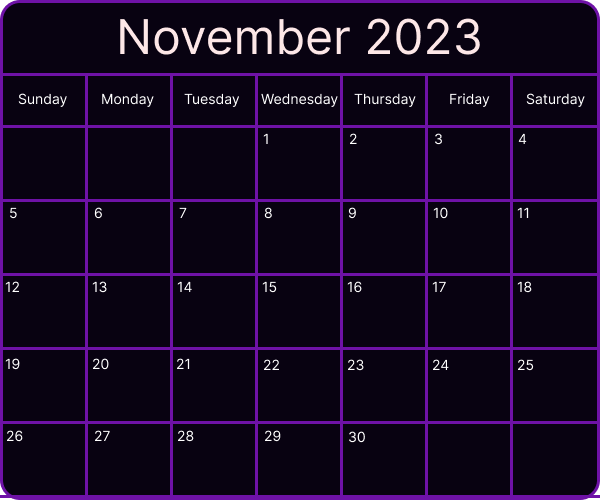
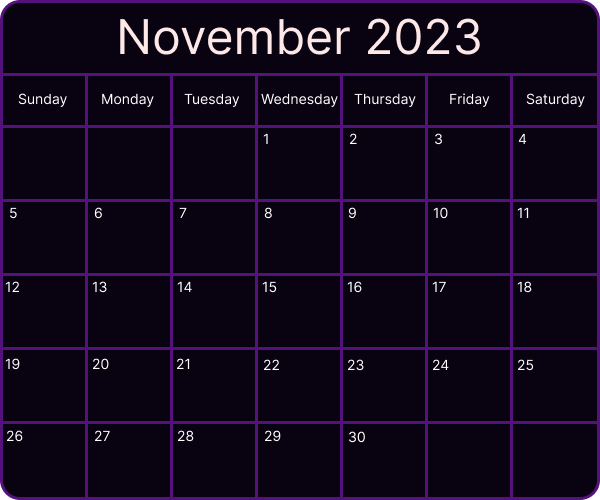
Finished polish
Added hover effects to the main page along with two more pictures. Fixed some spacing on other pages. Changed colour of calendar slightly. Ending it here so I don't get stuck polishing forever

Changed region(s): [[0.0, 0.0, 1.0, 1.0]]

diff --git a/homepage.css b/homepage.css
@@ -6,6 +6,7 @@
     --clr-background: #080211;
     --clr-secondary: #200D21;
     --clr-accent: #6E12A6;
+    --clr-accent2: #4b0c72;
 
     /* Sizes */
     --size-xxs: 0.5rem;
@@ -123,6 +124,18 @@ body {
     opacity: 0.5;
 }
 
+.lang__label {
+    margin-right: 0.5rem;
+}
+
+.lang__select {
+    background-color: var(--clr-background);
+    font-family: 'Kanit', sans-serif;
+    color: var(--clr-main-text);
+    border: none;
+    font-size: var(--size-base);
+}
+
 /* Main sections */
 
 .main {
@@ -136,12 +149,17 @@ body {
     width: 100%;
     font-size:0;
     line-height:0;
-    text-align: center;
+    display: flex;
+    justify-content: space-around;
 }
 
 .banner__img {
-    display: inline;
-    width: 800px;
+    /* width: 800px; */
+    height: 545px;
+}
+
+.img__op {
+    filter: brightness(50%);
 }
 
 .banner__hr {
@@ -178,11 +196,19 @@ body {
 
 .calendar {
     display: flex;
+    padding: 0.5rem;
+    margin-right: 2rem;
+    transition: background-color 0.3s;
+}
+
+.calendar:hover {
+    background-color: var(--clr-secondary);
+    border-radius: 10px;
 }
 
 .calendar__img {
-    width: 100px;
-    height: 100px;
+    width: 80px;
+    height: 80px;
     margin-right: 20px;
 }
 
@@ -229,7 +255,17 @@ body {
     display: flex;
     gap: 1rem;
     font-size: var(--size-lg);
-    background-color: var(--clr-secondary);
+    background-color: var(--clr-background);
+    padding: 0.5rem;
+    border-radius: 10px;
+    transition: background-color 0.3s;
+}
+
+.quickview__object:hover {
+    display: flex;
+    gap: 1rem;
+    font-size: var(--size-lg);
+    background-color: var(--clr-accent2);
     padding: 0.5rem;
     border-radius: 10px;
 }

diff --git a/index.html b/index.html
@@ -24,6 +24,13 @@
                 <li><a href="categories.html" class="header__link link-hover">Categories</a></li>
             </ul>
             <ul class="header__right">
+                <li>
+                    <label for="lang" class="lang__label">Language:</label>
+                    <select id="lang" class="lang__select">
+                        <option>English</option>
+                        <option>French</option>
+                    </select>
+                </li>
                 <li class="header__link-icons">
                     <a href="#lol" class="link-hover">
                         <div class="link-hover">
@@ -56,8 +63,9 @@
         <main class="main">
 
             <section class="banner">
-                <img src="Images/cover_house.jpg" alt="House for sale" class="banner__img">
-                <hr class="banner__hr">
+                <img src="Images/banner1.jpg" alt="Banner House 1" class="banner__img img__op">
+                <img src="Images/cover_house.jpg" alt="Banner House 2" class="banner__img">
+                <img src="Images/banner2.jpg" alt=" Banner House 3" class="banner__img img__op">
             </section>
 
             <div class="dates-quickview">

diff --git a/categories.html b/categories.html
@@ -25,6 +25,13 @@
                 <li><a href="categories.html" class="header__link link-hover">Categories</a></li>
             </ul>
             <ul class="header__right">
+                <li>
+                    <label for="lang" class="lang__label">Language:</label>
+                    <select id="lang" class="lang__select">
+                        <option>English</option>
+                        <option>French</option>
+                    </select>
+                </li>
                 <li class="header__link-icons">
                     <a href="#lol" class="link-hover">
                         <div class="link-hover">

diff --git a/profile.html b/profile.html
@@ -24,6 +24,13 @@
                 <li><a href="categories.html" class="header__link link-hover">Categories</a></li>
             </ul>
             <ul class="header__right">
+                <li>
+                    <label for="lang" class="lang__label">Language:</label>
+                    <select id="lang" class="lang__select">
+                        <option>English</option>
+                        <option>French</option>
+                    </select>
+                </li>
                 <li class="header__link-icons">
                     <a href="#lol" class="link-hover">
                         <div class="link-hover">

diff --git a/profile.css b/profile.css
@@ -124,12 +124,25 @@ body {
     opacity: 0.5;
 }
 
+.lang__label {
+    margin-right: 0.5rem;
+}
+
+.lang__select {
+    background-color: var(--clr-background);
+    font-family: 'Kanit', sans-serif;
+    color: var(--clr-main-text);
+    border: none;
+    font-size: var(--size-base);
+}
+
 /* Main */
 
 .profile {
     display: grid;
     grid-template-columns: repeat(4, 1fr);
     grid-template-rows: repeat(3, 1fr);
+    margin-bottom: 1rem;
 }
 
 .account {

diff --git a/categories.css b/categories.css
@@ -124,6 +124,18 @@ body {
     opacity: 0.5;
 }
 
+.lang__label {
+    margin-right: 0.5rem;
+}
+
+.lang__select {
+    background-color: var(--clr-background);
+    font-family: 'Kanit', sans-serif;
+    color: var(--clr-main-text);
+    border: none;
+    font-size: var(--size-base);
+}
+
 /* Main */
 
 .main {
